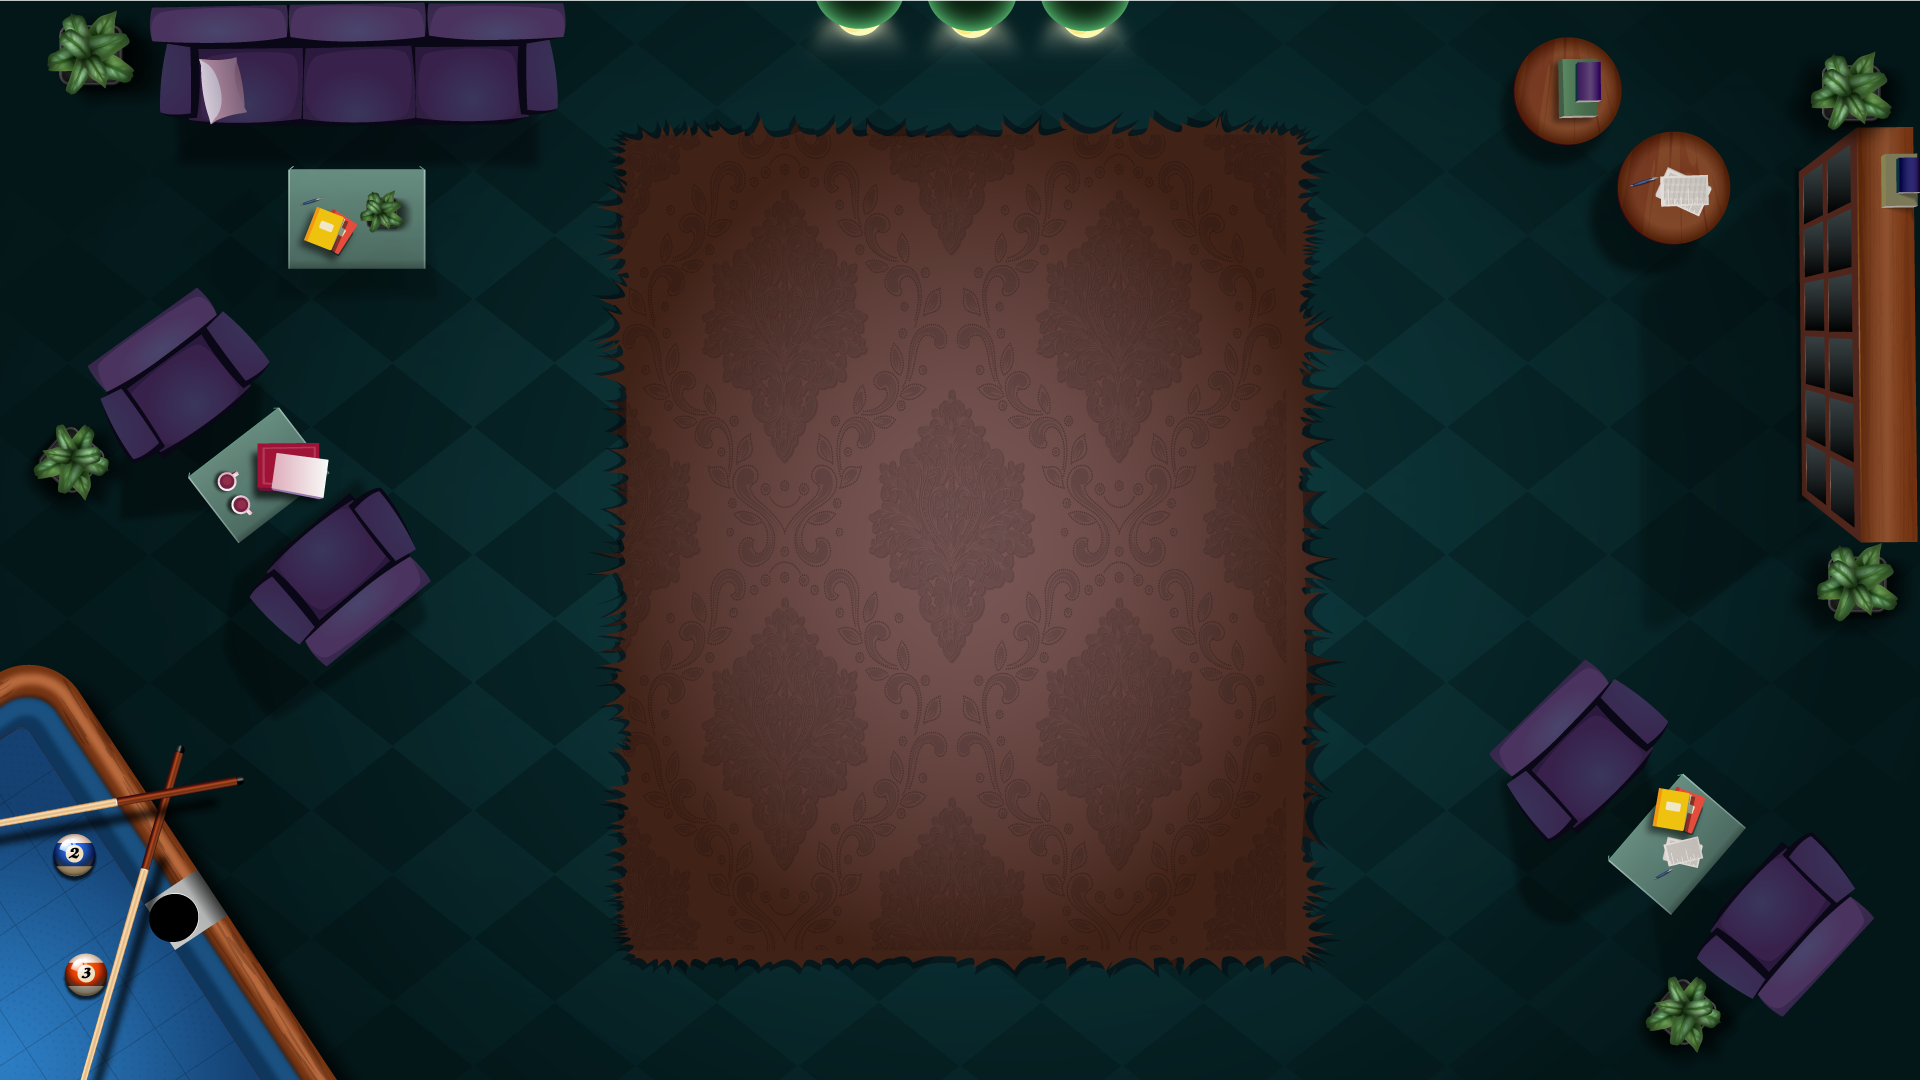
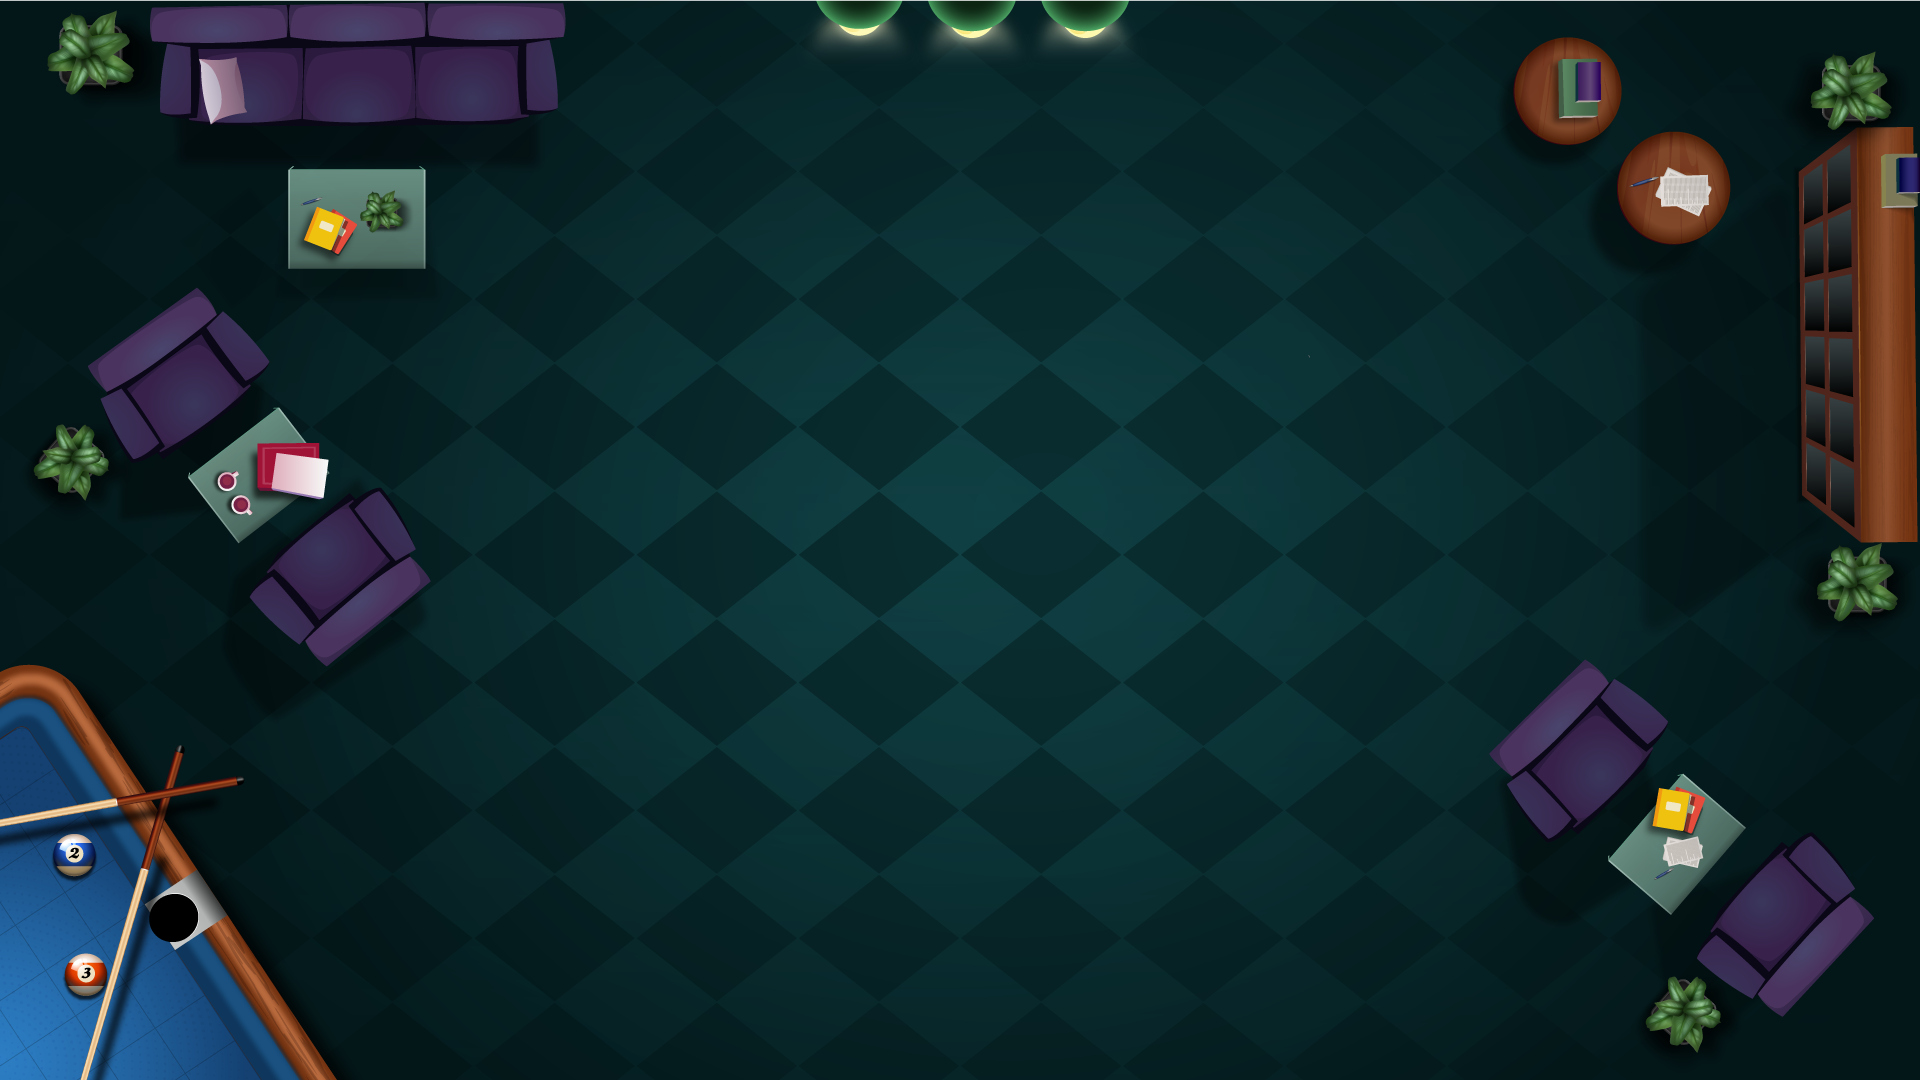
change background design

Changed region(s): [[0.3125, 0.0917, 0.6875, 0.9167]]

diff --git a/src/scenes/Preload.js b/src/scenes/Preload.js
@@ -23,7 +23,7 @@ class Preload extends Phaser.Scene {
 	editorCreate() {
 
 		// preload_screen
-		this.add.image(960, 540, "preload-screen");
+		this.add.image(960, 540, "table-1");
 
 		// progress
 		const progress = this.add.text(960, 988, "", {});
@@ -31,11 +31,30 @@ class Preload extends Phaser.Scene {
 		progress.text = "0%";
 		progress.setStyle({ "fontFamily": "Alfa Slab One", "fontSize": "54px" });
 
+		// stick
+		const stick = this.add.image(940, 300, "stick");
+		stick.scaleX = 1.8;
+		stick.scaleY = 2.3;
+		stick.angle = 163.5;
+
+		// logo_2
+		this.add.image(926, 277, "Logo-2");
+
+		// white_Ball_1
+		const white_Ball_1 = this.add.image(989, 311, "White-Ball");
+		white_Ball_1.scaleX = 0.7;
+		white_Ball_1.scaleY = 0.7;
+
 		// progress (components)
 		new PreloadText(progress);
 
+		this.white_Ball_1 = white_Ball_1;
+
 		this.events.emit("scene-awake");
 	}
+
+	/** @type {Phaser.GameObjects.Image} */
+	white_Ball_1;
 
 	/* START-USER-CODE */
 

diff --git a/src/scenes/Level.js b/src/scenes/Level.js
@@ -22,9 +22,9 @@ class Level extends Phaser.Scene {
 		// body
 		const body = this.add.container(0, 0);
 
-		// background
-		const background = this.add.image(960, 540, "Background");
-		body.add(background);
+		// carpet
+		const carpet = this.add.image(966, 543, "carpet");
+		body.add(carpet);
 
 		// container_border
 		const container_border = this.add.container(0, 0);
@@ -236,13 +236,14 @@ class Level extends Phaser.Scene {
 	}
 
   create() {
+    document.body.style.backgroundImage = 'url("assets/images/Background.png")';
     this.editorCreate();
 
     this.oLevelManager = new LevelManager(this);
     this.oSoundManager = new SoundManager(this);
     this.oTweenManager = new TweenManager(this);
     this.setAudio();
-    
+
     this.ballsGroup = this.add.group();
     this.holesGroup = this.add.group();
     this.borderGroup = this.add.group();

diff --git a/src/scenes/LevelUp.js b/src/scenes/LevelUp.js
@@ -19,9 +19,9 @@ class LevelUp extends Phaser.Scene {
 		// body
 		const body = this.add.container(0, 0);
 
-		// winning_bg
-		const winning_bg = this.add.image(960, 540, "winning-bg");
-		body.add(winning_bg);
+		// table_2
+		const table_2 = this.add.image(978, 540, "Table-2");
+		body.add(table_2);
 
 		// container_replay
 		const container_replay = this.add.container(960, 991);
@@ -57,6 +57,7 @@ class LevelUp extends Phaser.Scene {
 		this.win = win.win;
 	}
 	create() {
+		document.body.style.backgroundImage = 'url("assets/images/Background-3.png")';
 		this.editorCreate();
 		this.oSoundManager = new SoundManager(this);
 		this.oTweenManager = new TweenManager(this);

diff --git a/src/scenes/Loading.js b/src/scenes/Loading.js
@@ -20,7 +20,7 @@ class Loading extends Phaser.Scene {
 		const body = this.add.container(0, 0);
 
 		// splash_screen
-		const splash_screen = this.add.image(960, 540, "Splash-screen-2");
+		const splash_screen = this.add.image(960, 540, "table-1");
 		body.add(splash_screen);
 
 		// container_playButton

diff --git a/index.html b/index.html
@@ -18,7 +18,10 @@
 
 	<style>
 		body {
-			background-color: black;
+			background-image: url("assets/images/Background-2.png");
+			background-size: cover;
+			background-position: center;
+			overflow: hidden;
 			margin: 0;
 			padding: 0;
 		}

diff --git a/src/main.js b/src/main.js
@@ -11,7 +11,8 @@ const init = () => {
 		width: 1920,
 		height: 1080,
 		type: Phaser.AUTO,
-		backgroundColor: "#242424",
+		// backgroundColor: "#242424",
+		transparent: true,
 		parent: "game-division",
 		scale: {
 			mode: Phaser.Scale.FIT,
